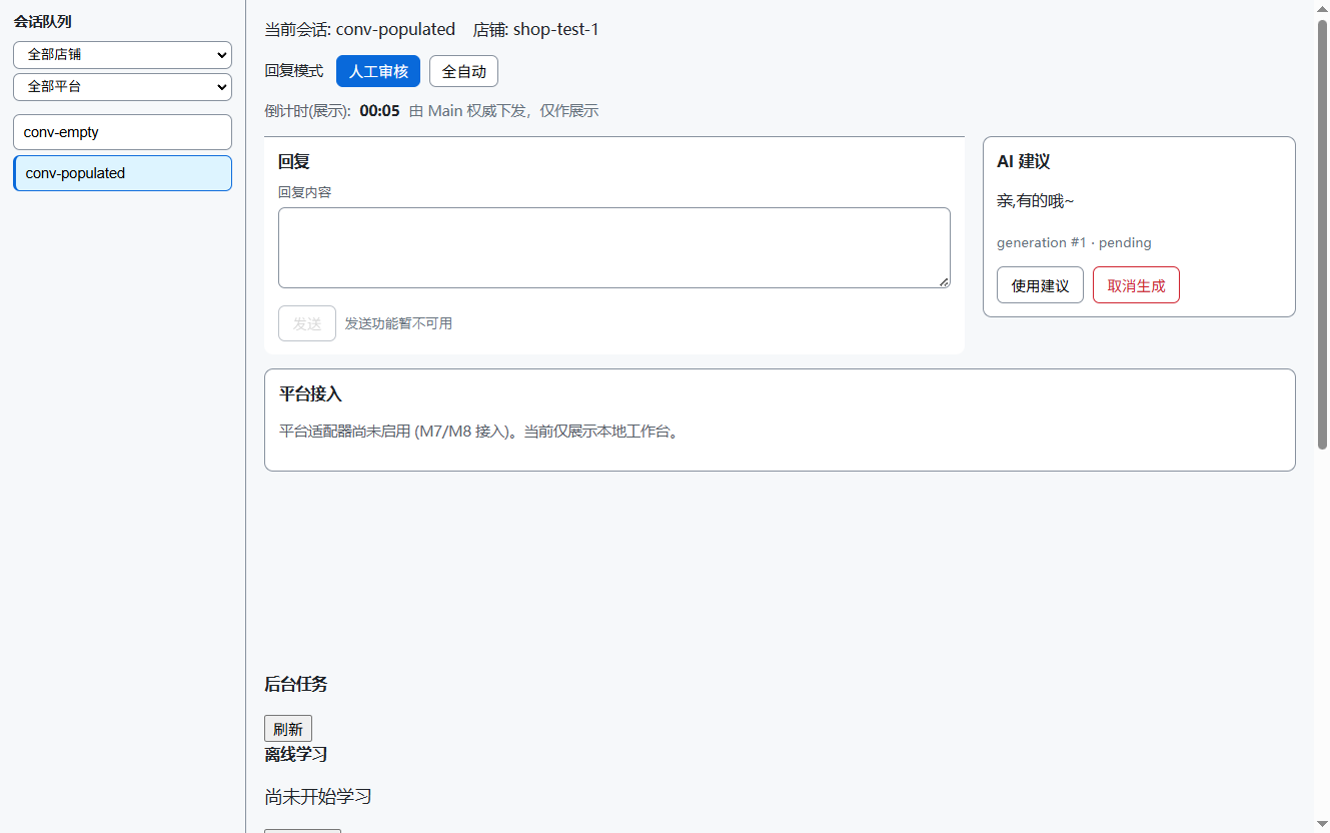
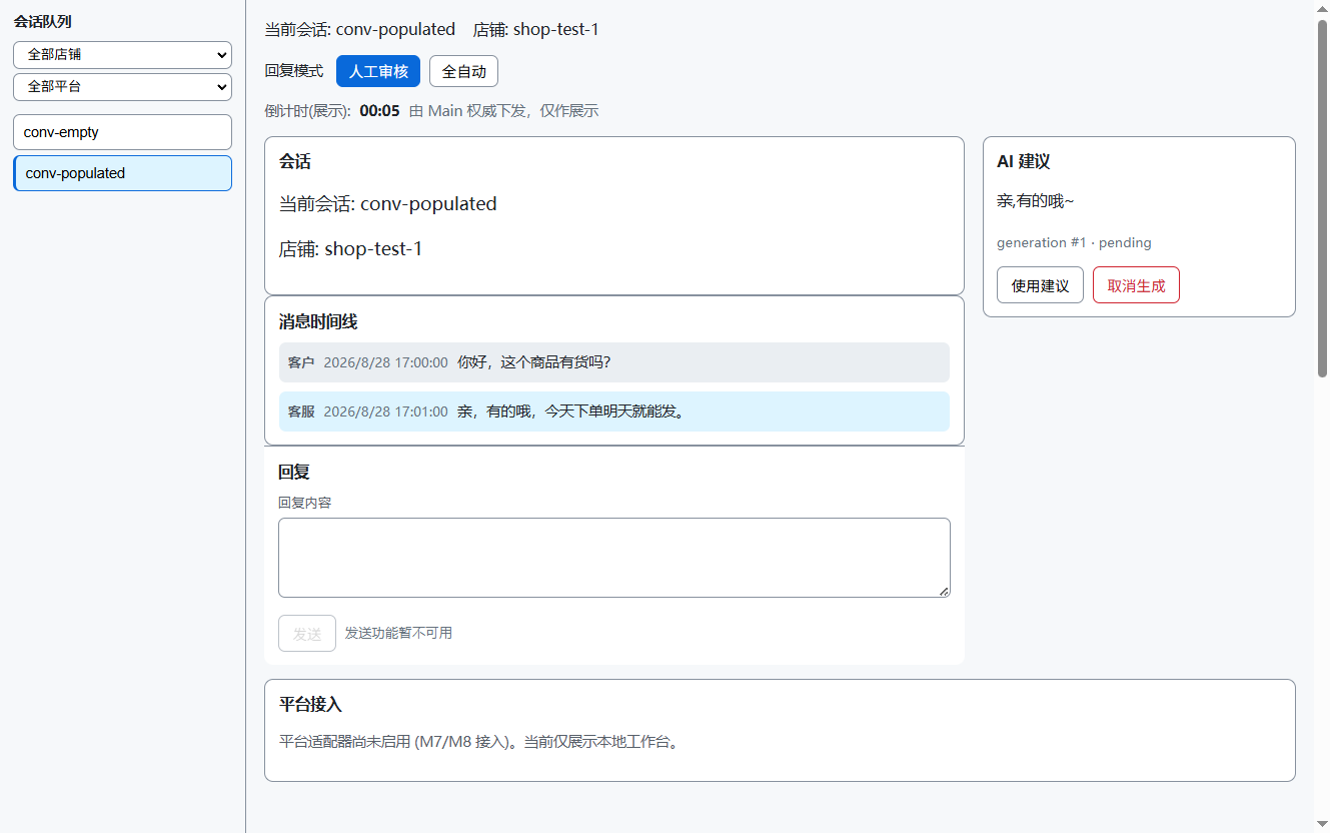
SHEEP-064 REPAIR #2: Timeline composition actual DOM fix — Read First located root cause (renderConversationPanel/MessageTimeline/Composer each clear(shared conversation-host), so the last surface wiped the Timeline; source helper presence was insufficient). New conversation-region.ts renders panel 

diff --git a/apps/desktop/tests/renderer-conversation-region-dom.test.ts b/apps/desktop/tests/renderer-conversation-region-dom.test.ts
@@ -1,0 +1,116 @@
+import { test } from "node:test";
+import assert from "node:assert/strict";
+import { renderConversationRegion } from "../dist/renderer/components/conversation-region.js";
+import { EMPTY_UI_STATE, type UiState } from "../dist/renderer/state/view-model.js";
+import type { WorkbenchActions } from "../dist/renderer/components/actions.js";
+import type { TimelineMessageView } from "@fastwork/desktop-ipc";
+
+// SHEEP-064 REPAIR #2 final-composed-DOM guard (NOT source-scan):
+// renderConversationRegion composes panel + Timeline + Composer into SEPARATE
+// sub-containers. In the FINAL composed DOM, for both populated and empty states,
+// the Timeline surface and the Composer surface MUST coexist and the Timeline MUST
+// be above the Composer (Composer never replaces/overrides the Timeline).
+
+class FakeElement {
+  tagName: string;
+  children: FakeElement[] = [];
+  parentNode: FakeElement | null = null;
+  attributes: Record<string, string> = {};
+  listeners: Record<string, Array<(e?: unknown) => void>> = {};
+  textContent = "";
+  id = "";
+  value = "";
+  type = "";
+  rows = 0;
+  disabled = false;
+  htmlFor = "";
+  tabIndex = 0;
+  private _className = "";
+  constructor(tag: string) { this.tagName = tag.toUpperCase(); }
+  get className(): string { return this._className; }
+  set className(v: string) { this._className = v; }
+  get firstChild(): FakeElement | null { return this.children[0] ?? null; }
+  appendChild(child: FakeElement): FakeElement { this.children.push(child); child.parentNode = this; return child; }
+  removeChild(child: FakeElement): FakeElement { const i = this.children.indexOf(child); if (i >= 0) this.children.splice(i, 1); return child; }
+  setAttribute(k: string, v: string): void { this.attributes[k] = v; }
+  addEventListener(type: string, fn: (e?: unknown) => void): void { (this.listeners[type] = this.listeners[type] ?? []).push(fn); }
+}
+
+// minimal document shim sufficient for the conversation-region components
+(globalThis as Record<string, unknown>).document = {
+  createElement: (tag: string) => new FakeElement(tag),
+};
+
+function findByClass(root: FakeElement, cls: string): FakeElement[] {
+  const out: FakeElement[] = [];
+  const walk = (n: FakeElement): void => {
+    if (n.className.split(/\s+/).includes(cls)) out.push(n);
+    for (const c of n.children) walk(c);
+  };
+  walk(root);
+  return out;
+}
+
+const NOOP_ACTIONS: WorkbenchActions = {
+  onSelectShop: () => {}, onSetMode: () => {}, onManualSend: () => {}, onNoSaveSend: () => {}, onCancel: () => {},
+  onPlatformBoundsChange: () => {}, onReloadPlatform: () => {}, onComposerDraftChange: () => {}, onComposerSubmit: () => {}, onApplySuggestion: () => {},
+};
+
+function msg(id: string, actor: "customer" | "agent", text: string): TimelineMessageView {
+  return { message_id: id, actor, content_kind: "text", content_text: text, occurred_at: "2026-08-28T09:00:00Z" };
+}
+
+function populatedState(): UiState {
+  return {
+    ...EMPTY_UI_STATE,
+    activeConversationId: "c1",
+    queueItems: [{ conversation_id: "c1", store_id: "A1" }],
+    timelineConversationId: "c1",
+    timelineMessages: [msg("m1", "customer", "你好"), msg("m2", "agent", "亲，在的")],
+    composerDrafts: { c1: "" },
+  };
+}
+function emptyState(): UiState {
+  return {
+    ...EMPTY_UI_STATE,
+    activeConversationId: "c1",
+    queueItems: [{ conversation_id: "c1", store_id: "A1" }],
+    timelineConversationId: "c1",
+    timelineMessages: [],
+    composerDrafts: { c1: "" },
+  };
+}
+
+function composed(): { host: FakeElement; timelineHost: FakeElement; composerHost: FakeElement } {
+  const host = new FakeElement("div");
+  renderConversationRegion(host, populatedState(), NOOP_ACTIONS);
+  const timelineHost = host.children[1];
+  const composerHost = host.children[2];
+  return { host, timelineHost, composerHost };
+}
+
+test("populated: final composed DOM has Timeline messages AND Composer, Timeline above Composer", () => {
+  const { host, timelineHost, composerHost } = composed();
+  assert.equal(host.children.length, 3, "panel + timeline + composer hosts");
+  assert.equal(timelineHost.className, "conversation-timeline-host");
+  assert.equal(composerHost.className, "composer-host");
+  // both surfaces coexist
+  assert.equal(findByClass(host, "message-timeline").length, 1, "Timeline surface present");
+  assert.equal(findByClass(host, "composer").length, 1, "Composer surface present");
+  // populated Timeline shows real message facts
+  assert.equal(findByClass(timelineHost, "timeline-message").length, 2, "real Timeline message facts rendered");
+  // order: timeline host BEFORE composer host
+  assert.ok(host.children.indexOf(timelineHost) < host.children.indexOf(composerHost), "Timeline is above Composer");
+});
+
+test("empty: final composed DOM has Timeline no-message state AND Composer, Timeline above Composer", () => {
+  const host = new FakeElement("div");
+  renderConversationRegion(host, emptyState(), NOOP_ACTIONS);
+  const timelineHost = host.children[1];
+  const composerHost = host.children[2];
+  assert.equal(findByClass(host, "message-timeline").length, 1, "Timeline surface present");
+  assert.equal(findByClass(host, "composer").length, 1, "Composer surface present");
+  assert.equal(findByClass(timelineHost, "fs-state--empty").length, 1, "Timeline no-message empty state rendered");
+  assert.equal(findByClass(timelineHost, "timeline-message").length, 0, "no fabricated messages in empty");
+  assert.ok(host.children.indexOf(timelineHost) < host.children.indexOf(composerHost), "Timeline is above Composer");
+});

diff --git a/apps/desktop/tests/renderer-conversation-region-structure.test.ts b/apps/desktop/tests/renderer-conversation-region-structure.test.ts
@@ -4,16 +4,17 @@ import { readFileSync } from "node:fs";
 import { join, dirname } from "node:path";
 import { fileURLToPath } from "node:url";
 
-// SHEEP-030 clean-room consolidation guards: the conversation region stays the
-// existing clean-room conversation-panel + suggestion-panel composition (SHEEP-030
-// made NO product code change; reference conversation layout evidence is
-// UNKNOWN/NOT_EVIDENCED in the authorized 5-bundle scope), with no
-// bridge/backend/auth/network dependency and safe text rendering only.
+// SHEEP-030/063/064 clean-room consolidation guards: the conversation region composes
+// panel + Timeline (primary content) + Composer (reply surface below), each into its
+// OWN sub-container so no render function can clobber a sibling surface (REPAIR #2
+// root cause). No bridge/backend/auth/network dependency and safe text rendering only.
 const HERE = dirname(fileURLToPath(import.meta.url));
 const R = join(HERE, "..", "src", "renderer", "components");
 const CONV = join(R, "conversation-panel.ts");
 const SUGG = join(R, "suggestion-panel.ts");
 const TIMELINE = join(R, "message-timeline.ts");
+const COMPOSER = join(R, "composer.ts");
+const REGION = join(R, "conversation-region.ts");
 const SHELL = join(R, "app-shell.ts");
 
 const BRIDGE_TOKENS = ["店铺API", "ipcRenderer", "fetch(", "WebSocket", "localStorage", "sessionStorage", "navigate(", "api_key", "credential"];
@@ -23,7 +24,7 @@ function baseName(p) {
 }
 
 test("conversation region keeps clean-room boundaries (no bridge/auth/network)", () => {
-  for (const f of [CONV, SUGG, TIMELINE]) {
+  for (const f of [CONV, SUGG, TIMELINE, COMPOSER, REGION]) {
     const src = readFileSync(f, "utf-8");
     for (const t of BRIDGE_TOKENS) {
       assert.ok(!src.includes(t), baseName(f) + " must not use " + t);
@@ -32,17 +33,29 @@ test("conversation region keeps clean-room boundaries (no bridge/auth/network)",
 });
 
 test("conversation region renders untrusted text safely (no innerHTML)", () => {
-  for (const f of [CONV, SUGG, TIMELINE]) {
+  for (const f of [CONV, SUGG, TIMELINE, COMPOSER, REGION]) {
     const src = readFileSync(f, "utf-8");
     assert.ok(!src.includes("innerHTML"), baseName(f) + " must not use innerHTML");
   }
 });
 
-test("app-shell composes conversation-host + suggestion-host (existing structure unchanged)", () => {
+test("conversation-region composes panel + timeline + composer into SEPARATE sub-containers (no clobber, REPAIR #2)", () => {
+  const src = readFileSync(REGION, "utf-8");
+  for (const token of ["conversation-panel-host", "conversation-timeline-host", "composer-host"]) {
+    assert.ok(src.includes(token), "conversation-region must create " + token);
+  }
+  for (const fn of ["renderConversationPanel", "renderMessageTimeline", "renderComposer"]) {
+    assert.ok(src.includes(fn), "conversation-region must compose " + fn);
+  }
+  // each surface gets its own host so a component's clear() never wipes a sibling
+  assert.ok(src.indexOf("conversation-panel-host") < src.indexOf("conversation-timeline-host"), "panel host before timeline host");
+  assert.ok(src.indexOf("conversation-timeline-host") < src.indexOf("composer-host"), "timeline host before composer host");
+});
+
+test("app-shell composes conversation-host + suggestion-host (existing structure kept)", () => {
   const shell = readFileSync(SHELL, "utf-8");
-  assert.ok(shell.includes("renderConversationPanel"), "must compose conversation panel");
+  assert.ok(shell.includes("renderConversationRegion"), "must compose conversation region");
   assert.ok(shell.includes("renderSuggestionPanel"), "must compose suggestion panel");
   assert.ok(shell.includes("conversation-host"), "must keep conversation-host");
   assert.ok(shell.includes("suggestion-host"), "must keep suggestion-host");
-  assert.ok(shell.includes("renderMessageTimeline"), "must compose message timeline (SHEEP-063 primary content surface)");
 });

diff --git a/apps/desktop/src/renderer/components/app-shell.ts b/apps/desktop/src/renderer/components/app-shell.ts
@@ -17,9 +17,7 @@ import { renderConversationList } from "./conversation-list.js";
 import { clear, el } from "./dom.js";
 import { renderAppNavbar } from "./app-navbar.js";
 import { renderWorkbenchHeader } from "./workbench-header.js";
-import { renderConversationPanel } from "./conversation-panel.js";
-import { renderMessageTimeline } from "./message-timeline.js";
-import { renderComposer } from "./composer.js";
+import { renderConversationRegion } from "./conversation-region.js";
 import { renderSuggestionPanel } from "./suggestion-panel.js";
 import { renderModeToggle } from "./mode-toggle.js";
 import { renderCountdownView } from "./countdown-view.js";
@@ -72,13 +70,10 @@ export function renderAppShell(root: HTMLElement, state: UiState, actions: Workb
 
   const panels = el("div", "panels");
   const conversationHost = el("div", "conversation-host");
-  renderConversationPanel(conversationHost, state);
-  // SHEEP-063: Message Timeline is the Conversation Main primary content surface
-  // (Phase-4 incremental topology convergence; bound to the active conversation).
-  renderMessageTimeline(conversationHost, state);
-  // SHEEP-064: Composer is the main reply surface BELOW the Timeline (DP-105/108),
-  // not an independent sibling card (incremental convergence; no final redesign).
-  renderComposer(conversationHost, state, actions);
+  // SHEEP-063/064: Conversation Main region = panel + Timeline (primary content) +
+  // Composer below (reply surface). Each surface renders into its own sub-container
+  // so components never clobber one another (REPAIR #2).
+  renderConversationRegion(conversationHost, state, actions);
   panels.appendChild(conversationHost);
   const suggestionHost = el("div", "suggestion-host");
   renderSuggestionPanel(suggestionHost, state, actions);
@@ -140,5 +135,6 @@ function noopM10Actions(): M10PanelActions {
     onCancelJob: () => {},
   };
 }
+
 
 

diff --git a/apps/desktop/src/renderer/components/conversation-region.ts b/apps/desktop/src/renderer/components/conversation-region.ts
@@ -1,0 +1,34 @@
+// SHEEP-063/064 Conversation Main region composition (REPAIR #2).
+// The Conversation Main region stacks, in order:
+//   1. conversation-panel   (identity header, clean-room baseline)
+//   2. message-timeline     (primary content surface, SHEEP-063)
+//   3. composer             (reply surface BELOW the timeline, SHEEP-064)
+// Each surface is rendered into its OWN sub-container so that each component's
+// internal clear(root) can never wipe a sibling surface (the REPAIR root cause:
+// three render functions sharing one host each cleared the host, so only the last
+// surface survived). Timeline and Composer must coexist; Composer must not
+// replace/cover the Timeline.
+import type { UiState } from "../state/view-model.js";
+import type { WorkbenchActions } from "./actions.js";
+import { renderConversationPanel } from "./conversation-panel.js";
+import { renderMessageTimeline } from "./message-timeline.js";
+import { renderComposer } from "./composer.js";
+import { clear, el } from "./dom.js";
+
+export function renderConversationRegion(root: HTMLElement, state: UiState, actions: WorkbenchActions): void {
+  clear(root);
+
+  const panelHost = el("div", "conversation-panel-host");
+  renderConversationPanel(panelHost, state);
+  root.appendChild(panelHost);
+
+  // SHEEP-063: Message Timeline is the Conversation Main primary content surface.
+  const timelineHost = el("div", "conversation-timeline-host");
+  renderMessageTimeline(timelineHost, state);
+  root.appendChild(timelineHost);
+
+  // SHEEP-064: Composer is the reply surface BELOW the Timeline (never replacing it).
+  const composerHost = el("div", "composer-host");
+  renderComposer(composerHost, state, actions);
+  root.appendChild(composerHost);
+}

diff --git a/docs/fast-sheep-composer.md b/docs/fast-sheep-composer.md
@@ -44,7 +44,15 @@
 - Composer Send 继续 native disabled + unavailable cue（未提前实现 SHEEP-066）。
 - **Visual evidence（重捕获，两张）**：`sheep-064-composer-apply.png`（populated Timeline + Composer + AI apply path，draft=亲,有的哦~）、`sheep-064-composer-empty.png`（empty Timeline + Composer）；legacy send path 不触发的自动化证据见测试。
 
-## 5. 边界（未实现/未改动）
+## 5. REPAIR #2（Owner 2026-08-28）：Timeline composition 实际 DOM 修正
+
+- **根因（Read First）**：`renderConversationPanel` / `renderMessageTimeline` / `renderComposer` 均以 `clear(root)` 开头并共享同一个 `conversation-host`——后调用者会清空先调用者的输出，最终 DOM 只剩最后一个 surface（Composer），Timeline 实际未渲染（此前仅凭 source 存在 helper 不足以证明）。
+- **修复**：新增 `conversation-region.ts` `renderConversationRegion`——panel / Timeline / Composer 各自渲染到独立子容器（`conversation-panel-host` / `conversation-timeline-host` / `composer-host`），任何组件 `clear()` 只影响自身容器，Timeline 与 Composer 共存且顺序为 Timeline 在上、Composer 在下。
+- **最终 DOM guard（非 source-scan）**：`renderer-conversation-region-dom.test.ts` 用最小 DOM shim 渲染最终 composed DOM，覆盖 populated（真实 timeline-message facts + composer）与 empty（timeline no-message empty + composer），断言两 surface 共存且 timeline 在 composer 上方。
+- **Actual renderer evidence（capture DOM 断言）**：`DOM_COMPOSITION {"order":["message-timeline","composer"],"tl":true,"co":true}`（apply 与 empty 两态均通过）。
+- 未重做 drafts/IME/AI apply/I-27~I-30；未改 schema；未实现 Attachments/Send Pipeline/Unread/Product-Order。
+
+## 6. 边界（未实现/未改动）
 
 - 未实现真正 send IPC / message ingestion / platform delivery / Outbox / sync（SHEEP-066）；Attachments（SHEEP-065）；draft persistence（SHEEP-075）；Unread/Priority/Risk；Customer/Product/Order（M4.3）；schema（v9 不变）；AI 自动发送。
 - 未用 `orchestrator.manual_send` 作为 Composer 临时替代（Option B 禁止）。
